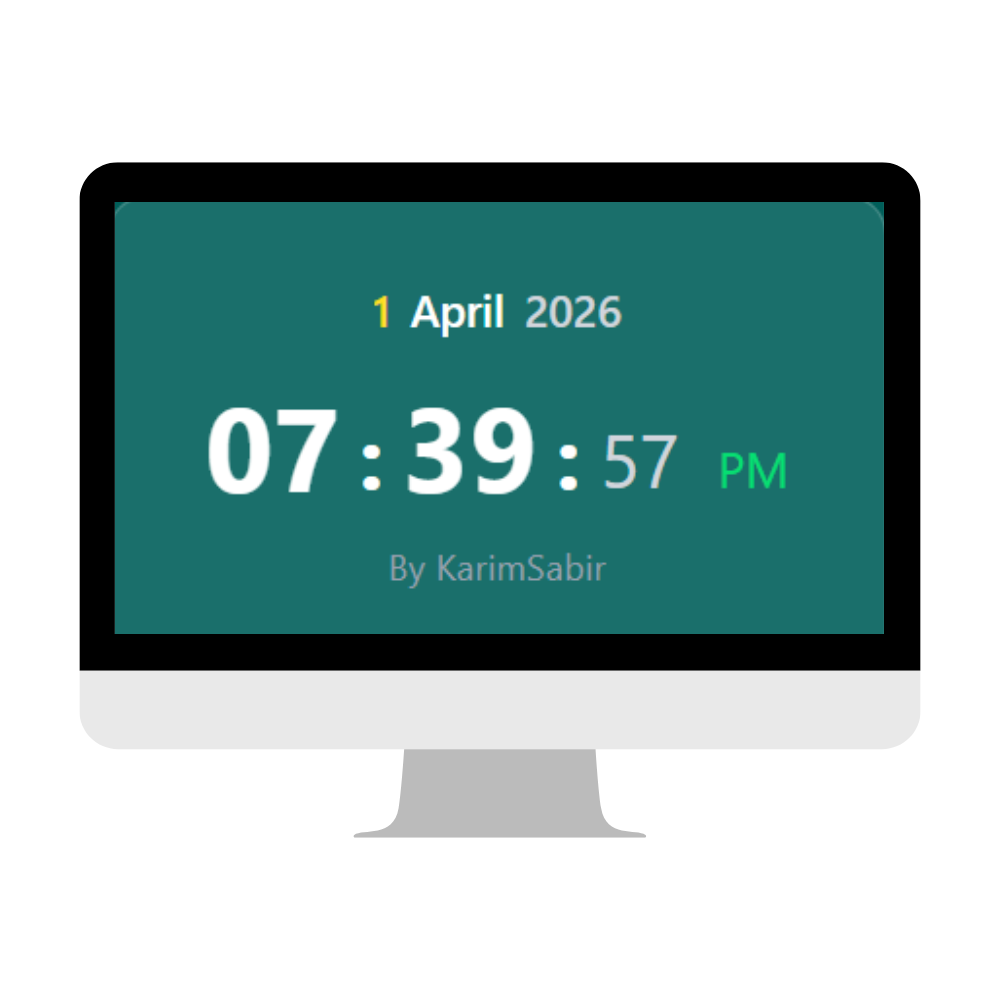
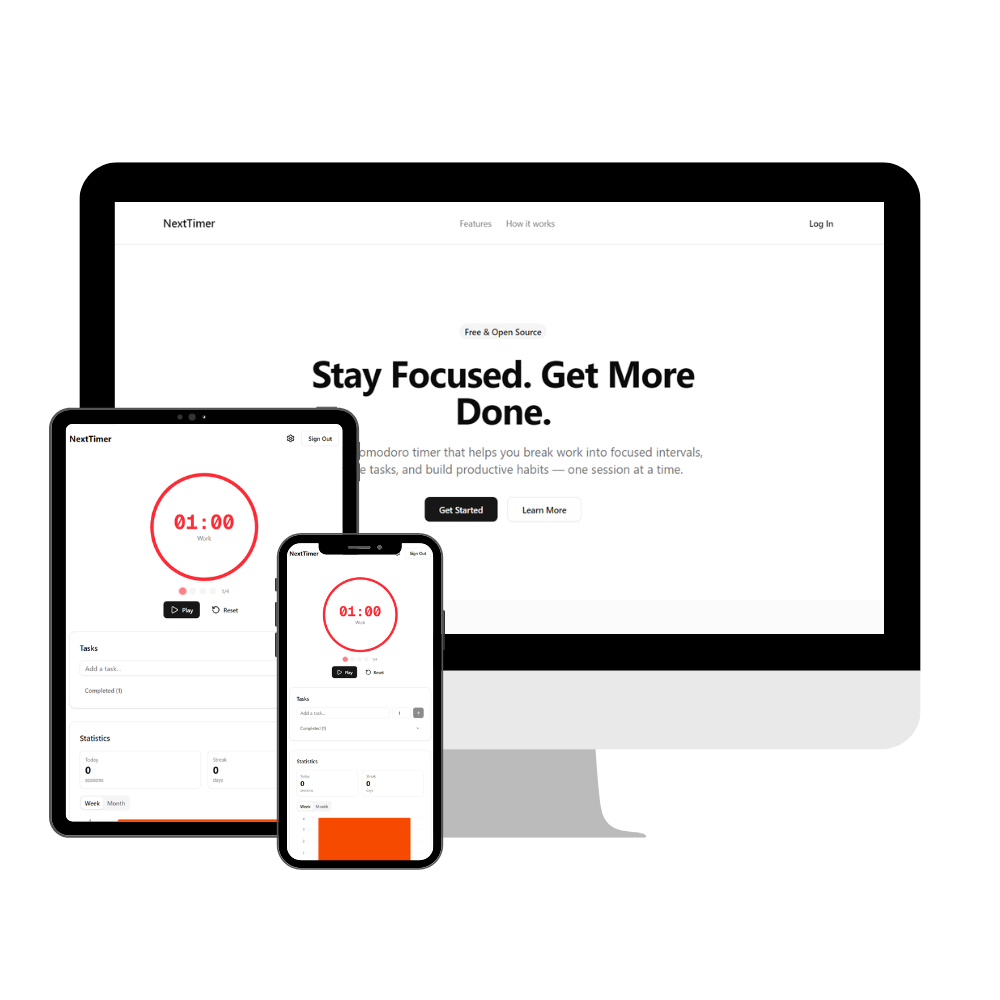
added new photo

diff --git a/src/components/Projects.jsx b/src/components/Projects.jsx
@@ -1,5 +1,5 @@
-import { useState } from 'react';
-import { motion, AnimatePresence } from 'framer-motion';
+import { useState } from "react";
+import { motion, AnimatePresence } from "framer-motion";
 
 const ProjectModal = ({ project, isOpen, onClose }) => {
   if (!isOpen) return null;
@@ -40,11 +40,16 @@ const ProjectModal = ({ project, isOpen, onClose }) => {
               />
             </div>
 
-            <h2 className="text-3xl font-bold mb-4 dark:text-white">{project.title}</h2>
-            
+            <h2 className="text-3xl font-bold mb-4 dark:text-white">
+              {project.title}
+            </h2>
+
             <div className="flex flex-wrap gap-2 mb-6">
               {project.tech?.map((t) => (
-                <span key={t} className="px-4 py-1 bg-gray-100 dark:bg-gray-800 text-gray-700 dark:text-gray-300 rounded-full text-sm font-medium">
+                <span
+                  key={t}
+                  className="px-4 py-1 bg-gray-100 dark:bg-gray-800 text-gray-700 dark:text-gray-300 rounded-full text-sm font-medium"
+                >
                   {t}
                 </span>
               ))}
@@ -85,7 +90,7 @@ const ProjectModal = ({ project, isOpen, onClose }) => {
 
 const ProjectCard = ({ project, index, onOpen }) => {
   return (
-    <motion.div 
+    <motion.div
       initial={{ opacity: 0, y: 30 }}
       whileInView={{ opacity: 1, y: 0 }}
       viewport={{ once: true }}
@@ -101,11 +106,18 @@ const ProjectCard = ({ project, index, onOpen }) => {
           className="w-full h-full object-cover transition-transform duration-500 group-hover:scale-110"
         />
         <div className="absolute inset-0 bg-black/20 opacity-0 group-hover:opacity-100 transition-opacity flex items-center justify-center">
-          <span className="bg-white/90 px-6 py-2 rounded-full font-bold text-black shadow-lg">View Details</span>
+          <span className="bg-white/90 px-6 py-2 rounded-full font-bold text-black shadow-lg">
+            View Details
+          </span>
         </div>
       </div>
-      <h2 className="text-2xl font-bold mb-4 dark:text-white">{project.title}</h2>
-      <div className="flex justify-center gap-4" onClick={(e) => e.stopPropagation()}>
+      <h2 className="text-2xl font-bold mb-4 dark:text-white">
+        {project.title}
+      </h2>
+      <div
+        className="flex justify-center gap-4"
+        onClick={(e) => e.stopPropagation()}
+      >
         <motion.a
           whileHover={{ scale: 1.05 }}
           whileTap={{ scale: 0.95 }}
@@ -136,28 +148,41 @@ const Projects = () => {
 
   const projectsData = [
     {
-      image: '/images/Photo One.png',
-      title: 'Blogify CMS',
-      description: 'A modern full-stack content management system built with React, Supabase, and Tailwind CSS. It features a rich text editor, image uploads, and real-time database updates.',
-      tech: ['React', 'Supabase', 'Tailwind', 'Framer Motion'],
-      githubUrl: 'https://github.com/karimsaabir9/Blogify-A-Modern-Full-Stack-Content-Management-System-with-Supabase',
-      liveUrl: 'https://blogify-a-modern-full-stack-content-pied.vercel.app/',
+      image: "/images/Photo One.png",
+      title: "Blogify CMS",
+      description:
+        "A modern full-stack content management system built with React, Supabase, and Tailwind CSS. It features a rich text editor, image uploads, and real-time database updates.",
+      tech: ["React", "Supabase", "Tailwind", "Framer Motion"],
+      githubUrl:
+        "https://github.com/karimsaabir9/Blogify-A-Modern-Full-Stack-Content-Management-System-with-Supabase",
+      liveUrl: "https://blogify-a-modern-full-stack-content-pied.vercel.app/",
     },
     {
-      image: '/images/Photo Three.png',
-      title: 'Dynamic Clock',
-      description: 'An interactive clock application that shows real-time updates with smooth animations. Designed with a clean UI focus and modern aesthetics.',
-      tech: ['JavaScript', 'HTML5', 'CSS3', 'Animation'],
-      githubUrl: 'https://github.com/karimsaabir9/Clock',
-      liveUrl: 'https://clock-smoky-six.vercel.app/',
+      image: "/images/Photo Three.png",
+      title: "Pomodoro",
+      description:
+        "A modern Pomodoro timer application that helps users stay focused, track work sessions, and build consistent productivity habits through structured work and break intervals.",
+      tech: [
+        "Next.js 16",
+        "tRPC ",
+        "Better Auth",
+        "Drizzle ORM",
+        "Neon",
+        "TanStack Query",
+        "Tailwind CSS",
+        "shadcn/ui",
+      ],
+      githubUrl: "https://github.com/karimsaabir9/Pomodoro",
+      liveUrl: "https://pomodoro-sand-pi-68.vercel.app/",
     },
     {
-      image: '/images/Photo Two.png',
-      title: 'Uni Technology',
-      description: 'A professional business website for a technology company, featuring responsive layouts, service showcases, and a contact system.',
-      tech: ['React', 'Vite', 'Tailwind CSS', 'Responsive Design'],
-      githubUrl: 'https://github.com/karimsaabir9/Uni-Technology',
-      liveUrl: 'https://uni-technology.vercel.app/',
+      image: "/images/Photo Two.png",
+      title: "Uni Technology",
+      description:
+        "A professional business website for a technology company, featuring responsive layouts, service showcases, and a contact system.",
+      tech: ["React", "Vite", "Tailwind CSS", "Responsive Design"],
+      githubUrl: "https://github.com/karimsaabir9/Uni-Technology",
+      liveUrl: "https://uni-technology.vercel.app/",
     },
   ];
 

diff --git a/src/components/Experience.jsx b/src/components/Experience.jsx
@@ -41,10 +41,10 @@ const Experience = () => {
   const frontendSkills = [
     { name: 'HTML', level: 'Experienced' },
     { name: 'CSS', level: 'Experienced' },
-    { name: 'SASS', level: 'Intermediate' },
     { name: 'JavaScript', level: 'Experienced' },
-    { name: 'TypeScript', level: 'Basic' },
-    { name: 'Material UI', level: 'Intermediate' },
+    { name: 'Tailwind CSS', level: 'Experienced' },
+    { name: 'TypeScript', level: 'Intermediate' },
+    { name: 'Next.js', level: 'Intermediate' },
   ];
 
   const backendSkills = [

diff --git a/src/components/Contact.jsx b/src/components/Contact.jsx
@@ -65,7 +65,7 @@ const Contact = () => {
         <div className="flex items-center gap-3">
           <i className="fa-solid fa-envelope text-2xl dark:text-gray-300"></i>
           <a
-            href="mailto:Karimsaabir9@gmail.com"
+            href="mailto:karimsapir9@gmail.com"
             className="text-lg font-medium text-gray-800 dark:text-gray-200 hover:text-blue-600 dark:hover:text-blue-400 transition-colors"
           >
             karimsapir9@gmail.com
